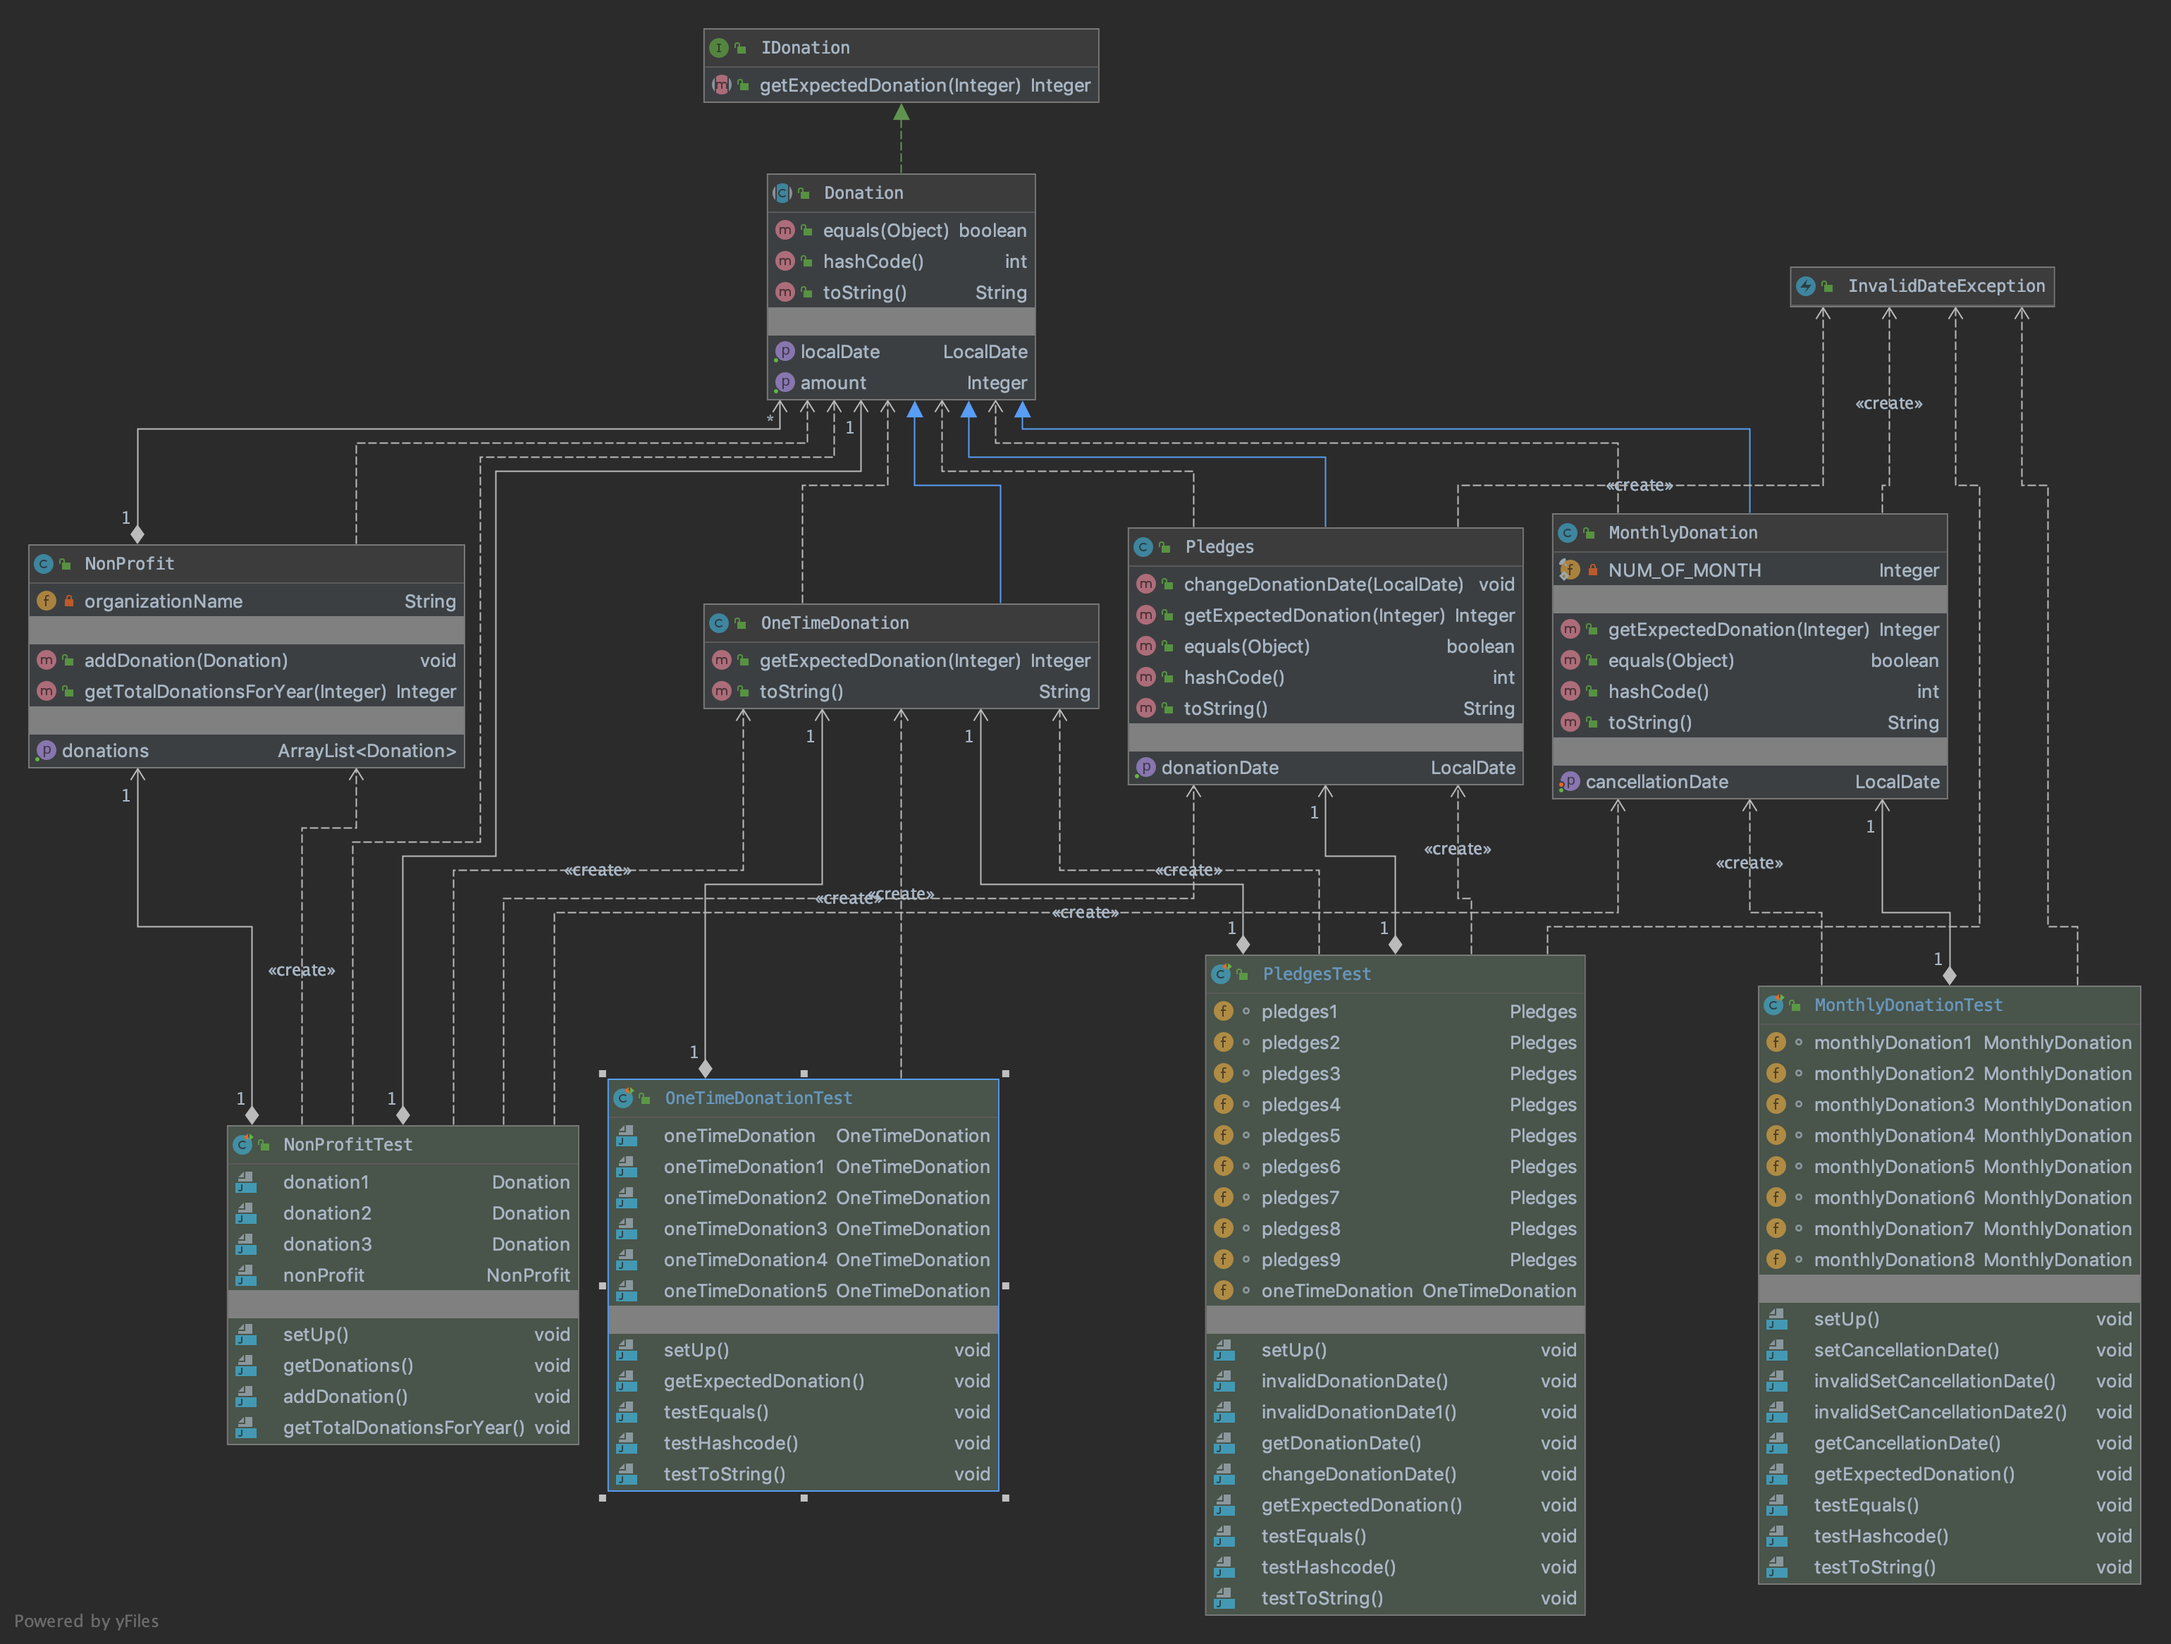
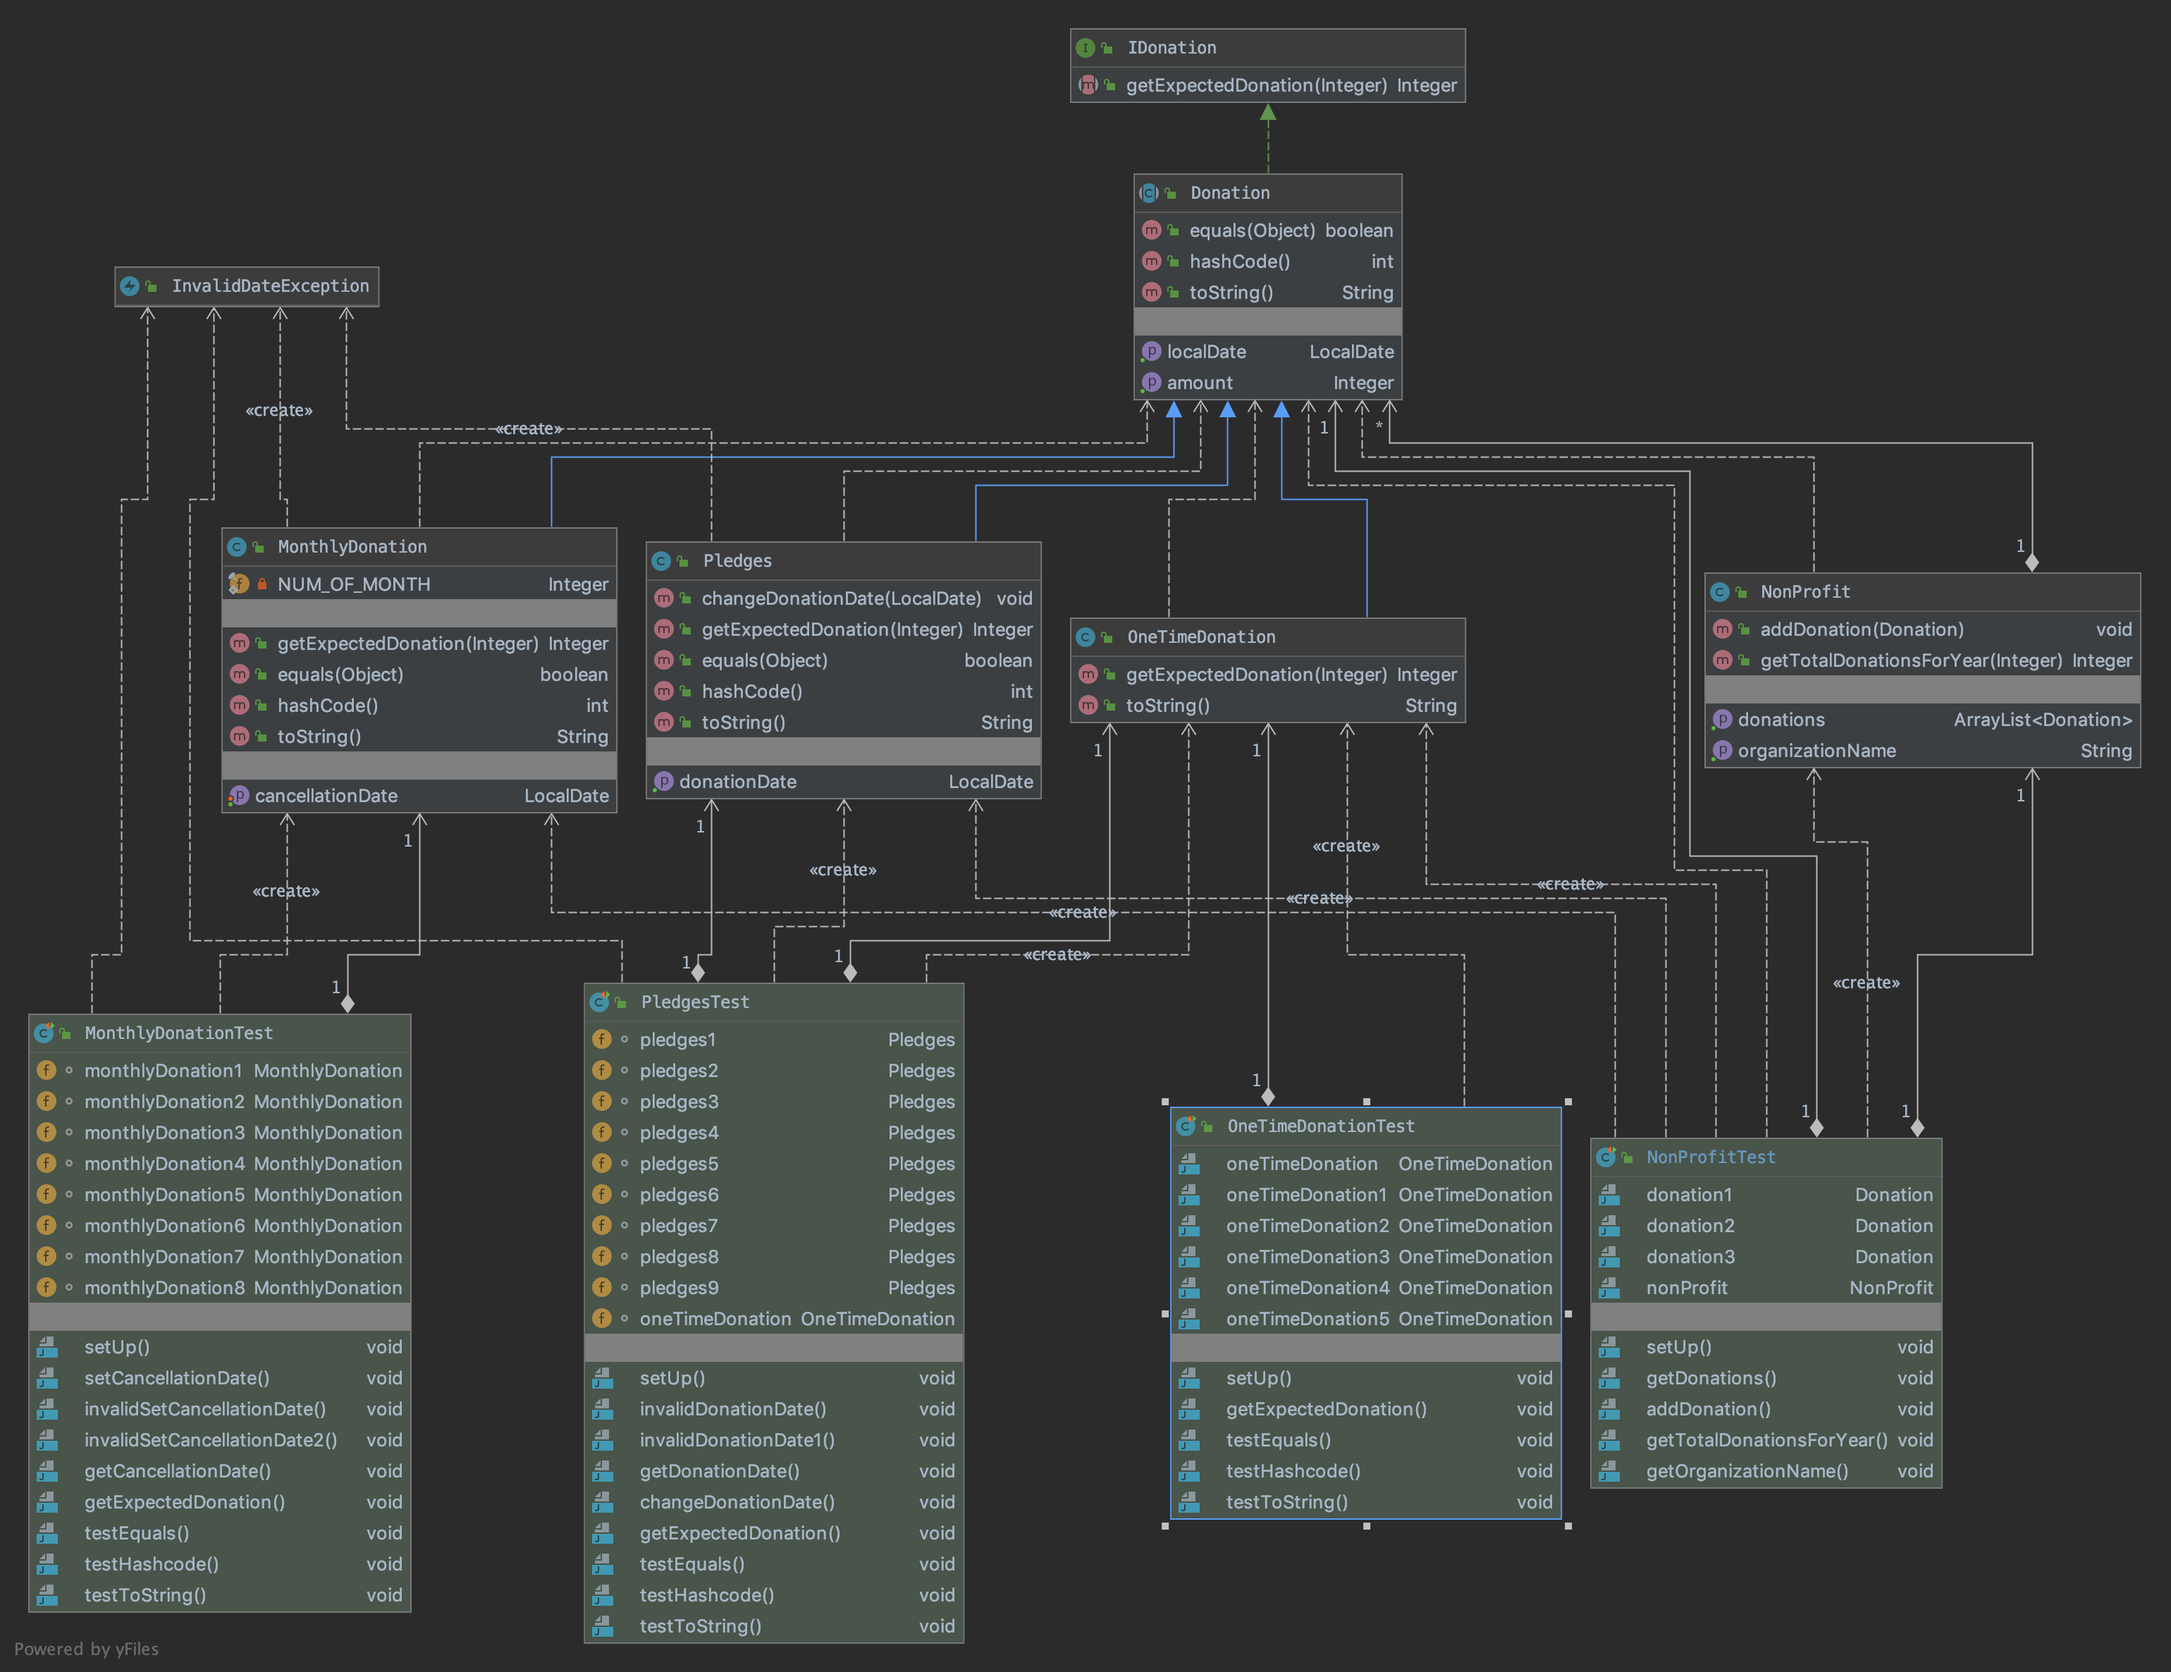
update

diff --git a/Assignment5/src/main/java/problem2/Band.java b/Assignment5/src/main/java/problem2/Band.java
@@ -24,7 +24,7 @@ public class Band extends Group {
   /**
    * Contains artist boolean.
    *
-   * @param recordingArtist the recording artist
+   * @param creators creators
    * @return the boolean
    */
   public Boolean match(Creators creators) {
@@ -89,8 +89,8 @@ public class Band extends Group {
   public int hashCode() {
     int result = name.hashCode();
     int sum = 0;
-    for (int i = 0; i < members.size(); i++) {
-      sum = sum + members.get(i).hashCode();
+    for (RecordingArtist member : members) {
+      sum = sum + member.hashCode();
     }
     return 31 * result + sum;
   }

diff --git a/Assignment5/src/main/java/problem1/MonthlyDonation.java b/Assignment5/src/main/java/problem1/MonthlyDonation.java
@@ -38,7 +38,7 @@ public class MonthlyDonation extends Donation {
    * @throws InvalidDateException the invalid date exception
    */
   public void setCancellationDate(LocalDate localDate) throws InvalidDateException {
-    if (localDate.compareTo(localDate.now()) < 0 || localDate.isBefore(this.getLocalDate())) {
+    if (localDate.compareTo(LocalDate.now()) < 0 || localDate.isBefore(this.getLocalDate())) {
       throw new InvalidDateException();
     }
     this.cancellationDate = localDate;

diff --git a/Assignment5/src/main/java/problem2/RecordingArtist.java b/Assignment5/src/main/java/problem2/RecordingArtist.java
@@ -18,9 +18,7 @@ public class RecordingArtist extends Individual {
   @Override
   public Boolean match(Creators creator) {
     if (creator instanceof RecordingArtist) {
-      if (this.equals(creator)) {
-        return true;
-      }
+      return this.equals(creator);
     }
     return false;
   }

diff --git a/Assignment5/src/main/java/problem2/Author.java b/Assignment5/src/main/java/problem2/Author.java
@@ -18,9 +18,7 @@ public class Author extends Individual {
   @Override
   public Boolean match(Creators creator) {
     if (creator instanceof Author) {
-      if (this.equals(creator)) {
-        return true;
-      }
+      return this.equals(creator);
     }
     return false;
   }

diff --git a/Assignment5/src/test/java/problem1/NonProfitTest.java b/Assignment5/src/test/java/problem1/NonProfitTest.java
@@ -47,4 +47,9 @@ public class NonProfitTest {
     nonProfit.addDonation(donation3);
     assertTrue(400 == nonProfit.getTotalDonationsForYear(2020));
   }
+
+  @Test
+  public void getOrganizationName() {
+    assertEquals("NONPROFIT", nonProfit.getOrganizationName());
+  }
 }

diff --git a/Assignment5/src/main/java/problem1/Pledges.java b/Assignment5/src/main/java/problem1/Pledges.java
@@ -68,7 +68,6 @@ public class Pledges extends Donation {
     } else if (localDate.isAfter(localDate.now()) && localDate.now().isBefore(this.donationDate)) {
       this.donationDate = localDate;
     }
-    return;
   }
 
   @Override

diff --git a/Assignment5/src/main/java/problem1/Donation.java b/Assignment5/src/main/java/problem1/Donation.java
@@ -28,7 +28,7 @@ public abstract class Donation implements IDonation {
    */
   public Donation(Integer amount) {
     this.amount = amount;
-    this.localDate = localDate.now();
+    this.localDate = LocalDate.now();
   }
 
   /**

diff --git a/Assignment5/src/main/java/problem2/ICreator.java b/Assignment5/src/main/java/problem2/ICreator.java
@@ -11,5 +11,5 @@ public interface ICreator {
    * @param creator the creator
    * @return the boolean
    */
-  public Boolean match(Creators creator);
+  Boolean match(Creators creator);
 }

diff --git a/Assignment5/src/main/java/problem1/NonProfit.java b/Assignment5/src/main/java/problem1/NonProfit.java
@@ -51,4 +51,8 @@ public class NonProfit {
     }
     return sum;
   }
+
+  public String getOrganizationName() {
+    return this.organizationName;
+  }
 }

diff --git a/Assignment5/src/main/java/problem1/IDonation.java b/Assignment5/src/main/java/problem1/IDonation.java
@@ -1,6 +1,5 @@
 package problem1;
 
-import problem2.Individual;
 
 /**
  * The interface Donation.
